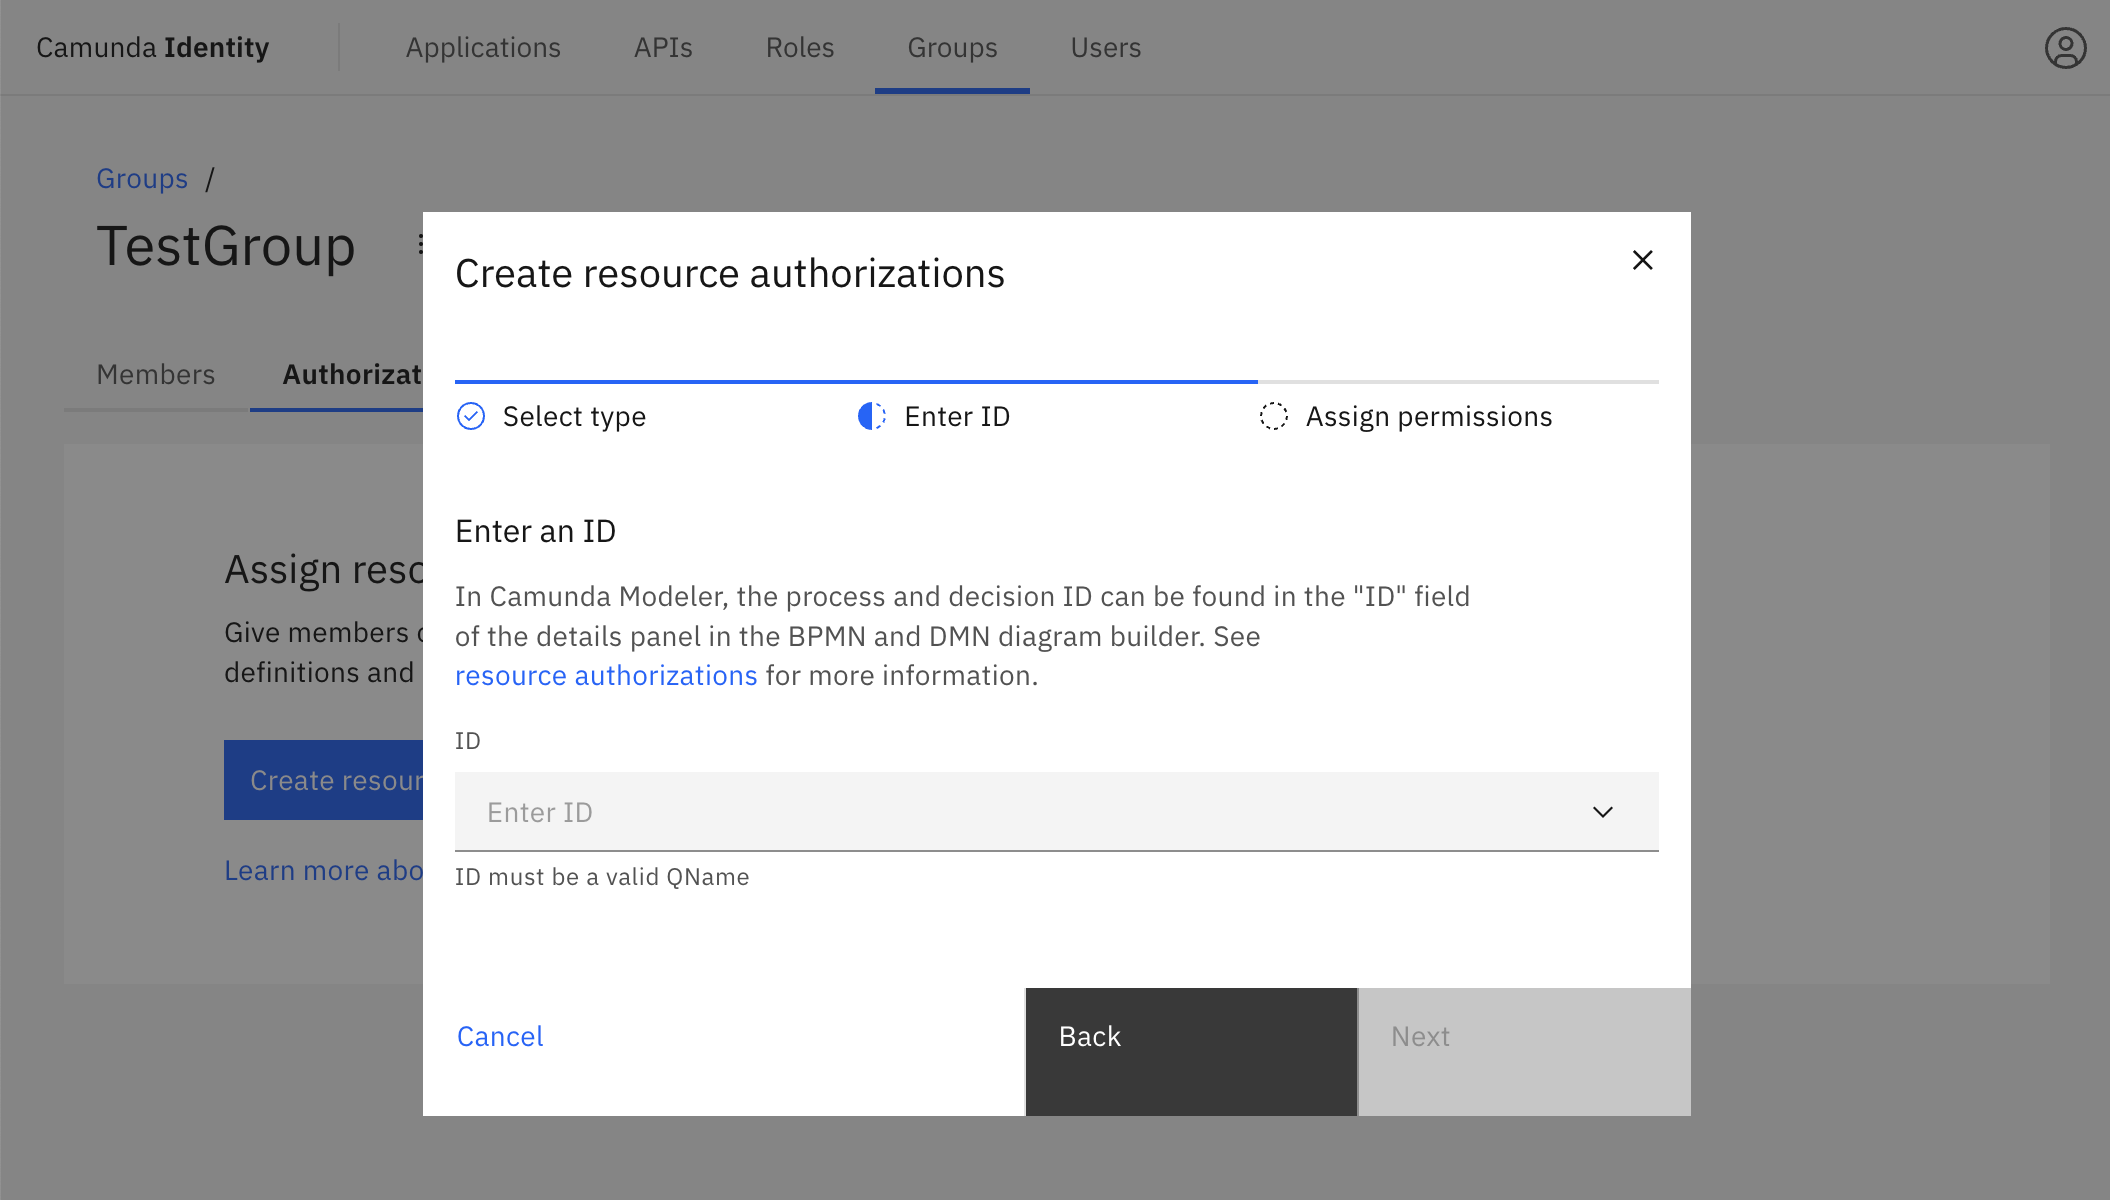
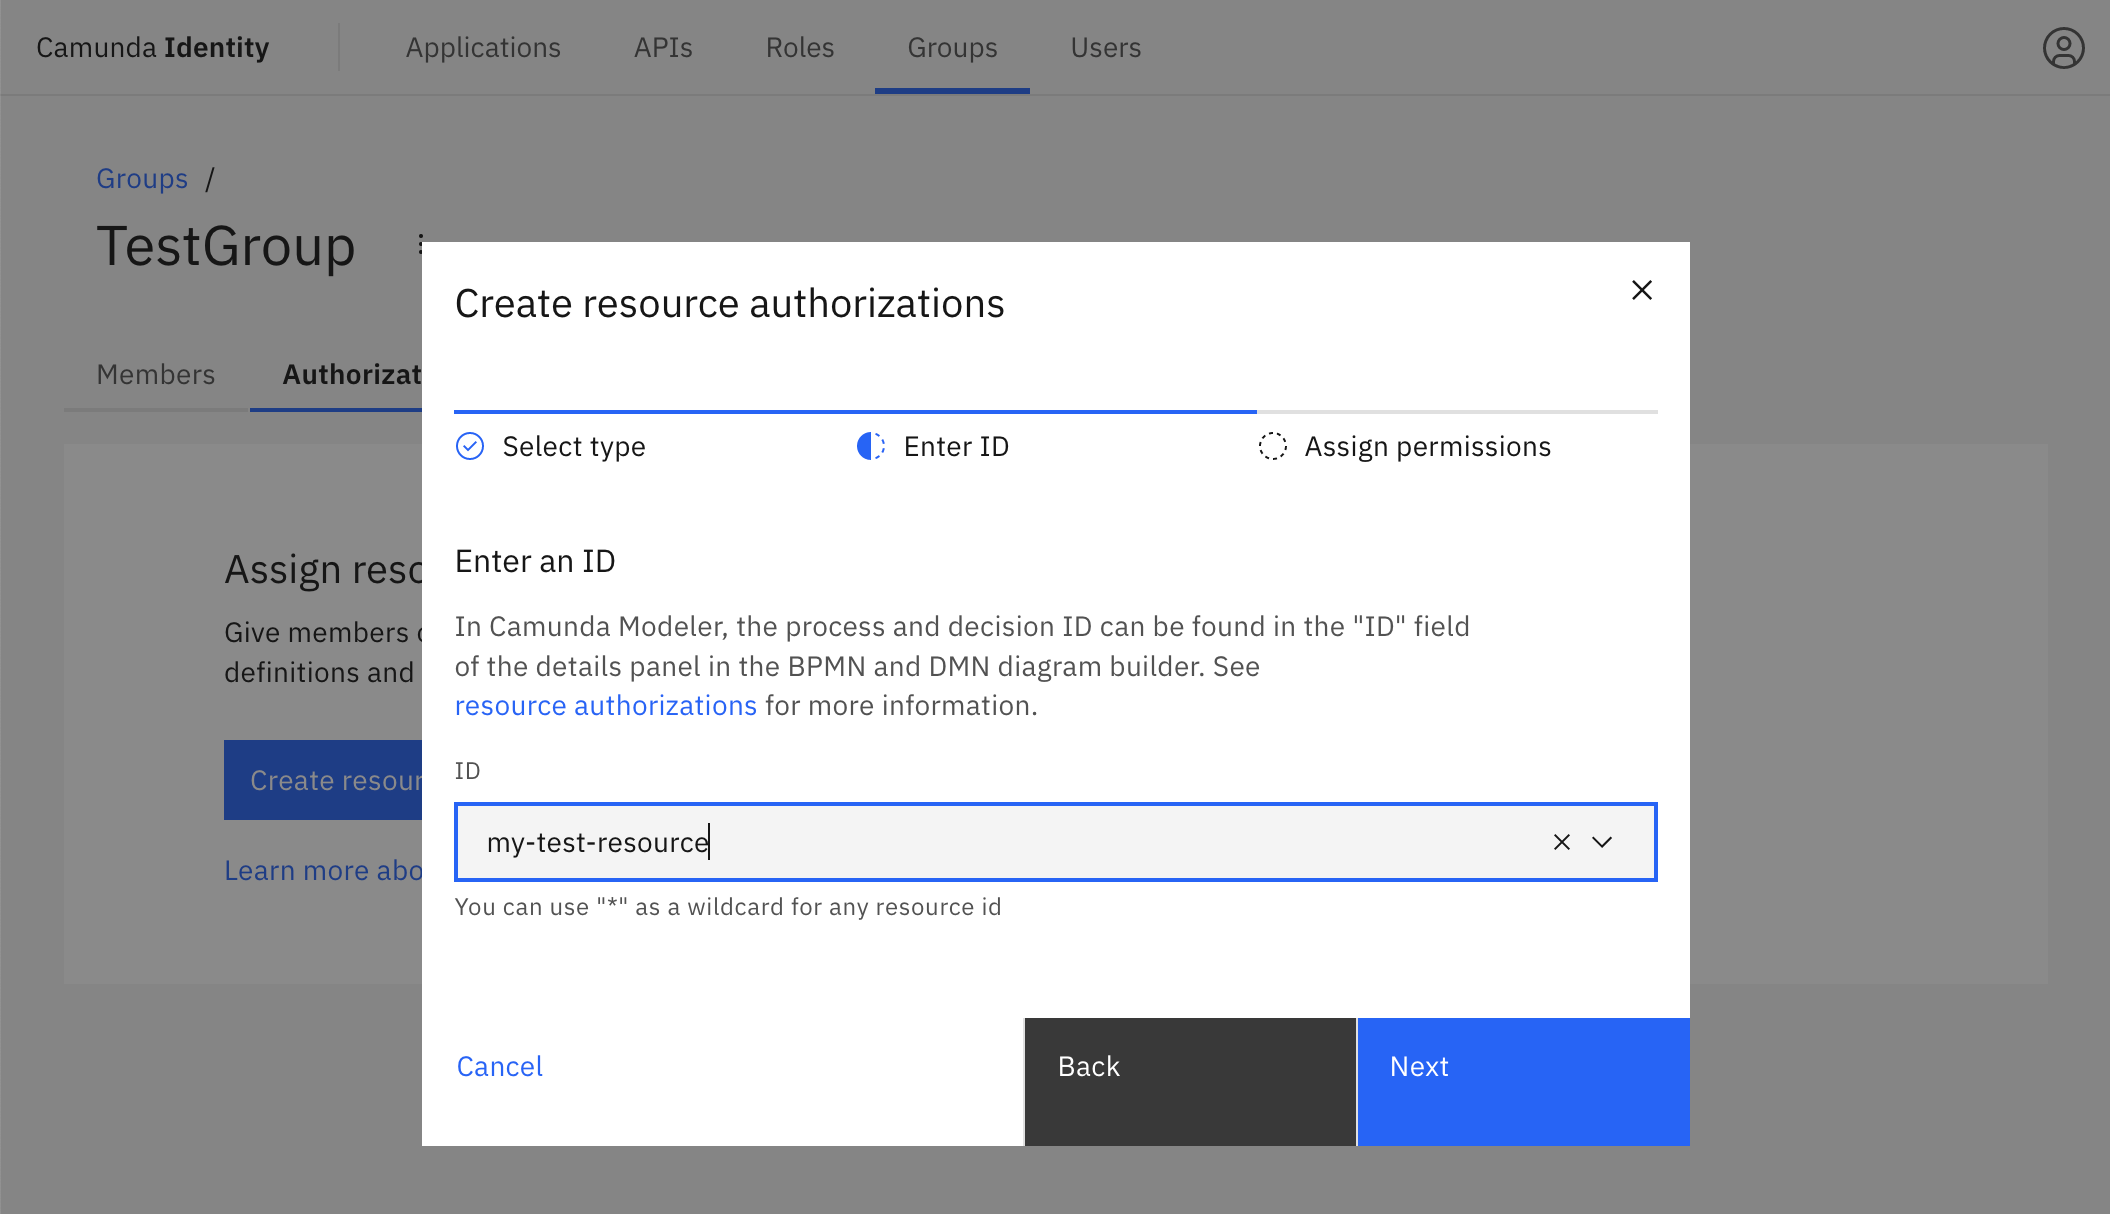
docs(identity): add resource authorizations guide

diff --git a/sidebars.js b/sidebars.js
@@ -1050,7 +1050,11 @@ module.exports = {
                 "self-managed/identity/user-guide/groups/creating-a-group",
                 "self-managed/identity/user-guide/groups/assigning-users-to-a-group",
                 "self-managed/identity/user-guide/groups/assigning-roles-to-a-group",
-                "self-managed/identity/user-guide/groups/creating-authorizations-for-a-group",
+              ],
+            },
+            {
+              Authorizations: [
+                "self-managed/identity/user-guide/authorizations/managing-resource-authorizations",
               ],
             },
             "self-managed/identity/user-guide/adding-an-application",

diff --git a/docs/self-managed/identity/user-guide/authorizations/managing-resource-authorizations.md b/docs/self-managed/identity/user-guide/authorizations/managing-resource-authorizations.md
@@ -1,0 +1,73 @@
+---
+id: managing-resource-authorizations
+title: "Managing resource authorizations"
+sidebar_label: "Managing resource authorizations"
+description: ""
+---
+
+import Tabs from "@theme/Tabs";
+import TabItem from "@theme/TabItem";
+
+In this guide you will learn about the methods to control resource access within the Identity application.
+
+### Creating resource authorizations
+
+Resource authorizations can be configured for an individual user or a group, below we show you how to create authorizations
+for both:
+
+<Tabs groupId="entityType" defaultValue="groups" values={[{label: 'Groups', value: 'groups', }, {label: 'Users', value: 'users', },]} >
+<TabItem value="groups">
+
+1. Log in to the Identity UI and navigate to the **Groups** tab. Select the group you would like to crete an authorization for from the table, and click on the **Authorizations** tab:
+
+![create-authorization-for-group-tab](../img/create-authorization-for-group-tab.png)
+
+2. Click **Create resource authorization** and a modal will open. Select the type of resource you are creating an authorization for, and click **Next**:
+
+![create-authorization-for-group-modal-1](../img/create-authorization-for-group-modal-1.png)
+
+3. Input the ID of the resource you would like to create an authorization for, select the resource from the list, and click **Next**:
+
+![create-authorization-for-group-modal-2](../img/create-authorization-for-group-modal-2.png)
+
+:::tip
+Want to apply an authorization to a wide range of resources? We support a wildcard character `*` to match any resource
+:::
+
+4. Select the permissions you would like to assign, and click **Create**:
+
+![create-authorization-for-group-modal-3](../img/create-authorization-for-group-modal-3.png)
+
+On confirmation, the modal closes, the table updates, and your authorization is shown:
+
+![create-authorization-for-group-refreshed-modal](../img/create-authorization-for-group-refreshed-table.png)
+
+</TabItem>
+<TabItem value="users">
+
+1. Log in to the Identity UI and navigate to the **Users** tab. Select the user you would like to create an authorization for from the table, and click on the **Authorizations** tab:
+
+![create-authorization-for-user-tab](../img/create-authorization-for-user-tab.png)
+
+2. Click **Create resource authorization** and a modal will open. Select the type of resource you are creating an authorization for, and click **Next**:
+
+![create-authorization-for-user-modal-1](../img/create-authorization-for-user-modal-1.png)
+
+3. Input the ID of the resource you would like to create an authorization for, select the resource from the list, and click **Next**:
+
+![create-authorization-for-user-modal-2](../img/create-authorization-for-user-modal-2.png)
+
+:::tip
+Want to apply an authorization to a wide range of resources? We support a wildcard character `*` to match any resource
+:::
+
+4. Select the permissions you would like to assign, and click **Create**:
+
+![create-authorization-for-user-modal-3](../img/create-authorization-for-user-modal-3.png)
+
+On confirmation, the modal closes, the table updates, and your authorization is shown:
+
+![create-authorization-for-user-refreshed-modal](../img/create-authorization-for-user-refreshed-table.png)
+
+</TabItem>
+</Tabs>

diff --git a/docs/self-managed/concepts/access-control/resource-authorizations.md b/docs/self-managed/concepts/access-control/resource-authorizations.md
@@ -1,0 +1,20 @@
+---
+id: resource-authorizations
+title: "Resource authorizations"
+sidebar_label: "Resource authorizations"
+description: "Resource authorizations allow you to control the level of access a user, or group, has to a particular resource in the system."
+---
+
+:::caution
+Resource authorizations are enabled by the use of a feature flag, to enable this feature in Identity please see the
+[configuration variables -> Feature flags](../../../../self-managed/identity/deployment/configuration-variables/#feature-flags) section.
+:::
+
+Resource authorizations allow you to control the level of access a [user](self-managed/concepts/access-control/users.md), or
+[group](self-managed/concepts/access-control/groups.md), has to a particular resource in the system.
+
+### Permissions or resource authorizations?
+
+[Permissions](self-managed/concepts/access-control/permissions.md) are designed as a way to control component access for a
+[user](self-managed/concepts/access-control/users.md) or [role](self-managed/concepts/access-control/roles.md). Resource
+authorizations, as described above, relate to the resources which may be used within a given component, such as a process definition.

diff --git a/docs/self-managed/identity/deployment/configuration-variables.md b/docs/self-managed/identity/deployment/configuration-variables.md
@@ -43,3 +43,11 @@ and `WEBMODELER`.
 
 For the `WEBMODELER` value, only the `KEYCLOAK_INIT_<COMPONENT>_ROOT_URL` variable is required to be set.
 :::
+
+### Feature flags
+
+Identity uses feature flag environment variables to enable and disable features, the supported flags are:
+
+| Environment variable         | Description                                 | Default value |
+| ---------------------------- | ------------------------------------------- | ------------- |
+| RESOURCE_PERMISSIONS_ENABLED | Controls the resource autorizations feature | false         |
